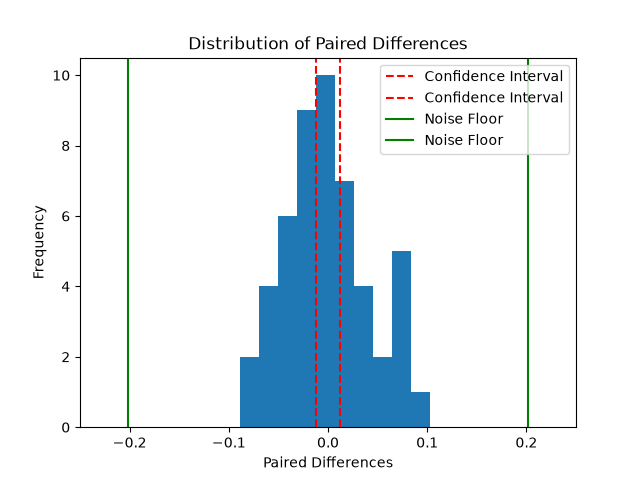
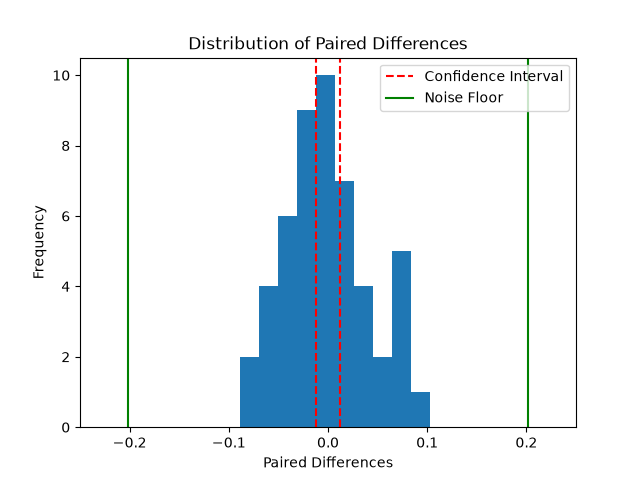
Figure formatting fixes

Changed region(s): [[0.5938, 0.1875, 0.875, 0.3125], [0.5938, 0.2812, 0.625, 0.3125]]

diff --git a/experiment.py b/experiment.py
@@ -74,10 +74,10 @@ plt.title("Distribution of Paired Differences")
 plt.axvline(
     x=confidence_interval[0], color="r", linestyle="--", label="Confidence Interval"
 )
-plt.axvline(x=confidence_interval[1], color="r", linestyle="--", label="_nolegend_")
+plt.axvline(x=confidence_interval[1], color="r", linestyle="--", label="_nolegend")
 
 plt.axvline(x=noise_floor, color="g", linestyle="-", label="Noise Floor")
-plt.axvline(x=-noise_floor, color="g", linestyle="-", label="_nolegend_")
+plt.axvline(x=-noise_floor, color="g", linestyle="-", label="_nolegend")
 
 plt.legend()
 plt.xlim(-0.25, 0.25)

diff --git a/linear_regression.py b/linear_regression.py
@@ -80,6 +80,7 @@ def lr_rando_split(data, Descriptors, Runs):
     data = data.copy()
 
     data = data.drop_duplicates(subset=["parent_molecule_chembl_id"])
+    data = data.dropna(subset=["canonical_smiles"])
 
     mae_list = []
 
